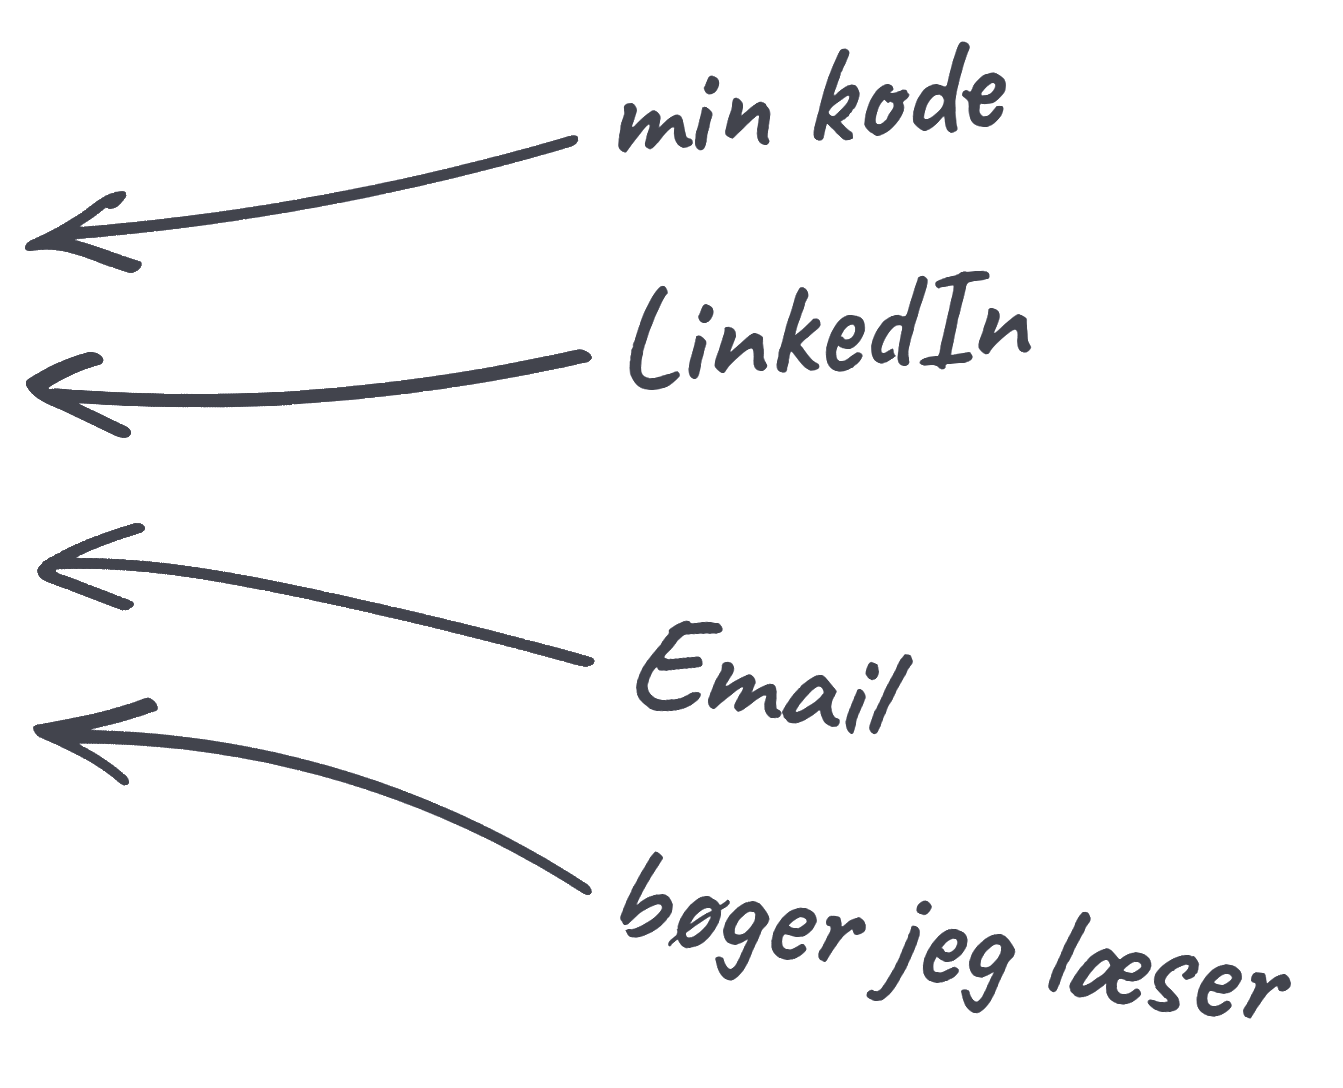
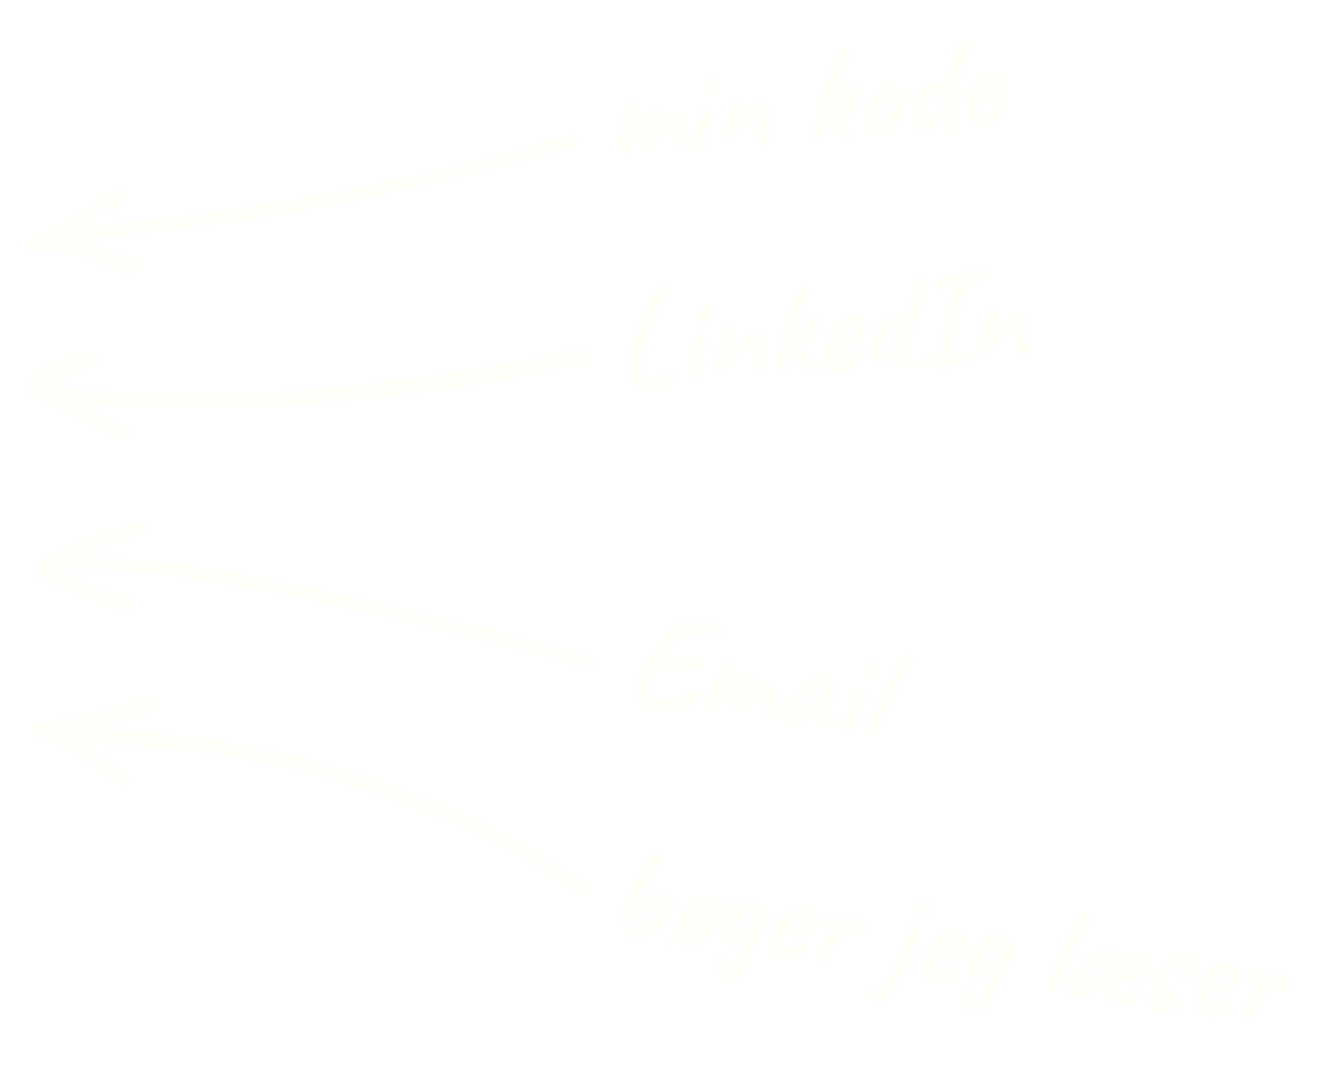
Darkmode

diff --git a/style.css b/style.css
@@ -8,6 +8,13 @@ span {
 	top: -8px;
 }
 
+body {
+	background-image: url("images/background.png");
+	background-color: #cccccc;
+	background-repeat: no-repeat;
+    background-size: cover;
+}
+
 #split-background {
 	position: absolute;
 	top: 0px;
@@ -37,9 +44,9 @@ span {
 }
 
 #profile-image {
-	width: 227px;
+	width: 224.5px;
 	box-shadow: 5px 5px 16px #0002;
-	border: 1px solid #000A;
+	border: 2px solid #fff3;
 	border-radius: 3px;
 }
 
@@ -50,7 +57,8 @@ span {
 	letter-spacing: 1px;
 	margin: 0px;
 	padding-bottom: 18px;
-	color: #42444d;
+	color: #FFF;
+	text-shadow: 5px 5px 16px #0007;
 }
 
 .linkbox {
@@ -60,9 +68,9 @@ span {
 	margin-bottom: 7px;
 	padding: 11px;
 	width: 300px;
-	height: 28px;
-	box-shadow: 5px 5px 16px #0002;
-	border: 1px solid #0003;
+	height: 25.5px;
+	box-shadow: 5px 5px 16px #0007;
+	border: 2px solid #0003;
 	border-radius: 3px;
 }
 

diff --git a/script.js b/script.js
@@ -7,12 +7,12 @@ window.onresize = function(event) {
 
 	// }
 	// else
-	if (window.innerWidth < 1250) {
+	if (window.innerWidth < 1250 || window.innerWidth/window.innerHeight > 1) {
 		pf_div.style.marginLeft = (window.innerWidth/2 - 600/2).toString()+"px";
 		arrow_img.style.visibility = 'hidden';
 	}
 	else {
-		pf_div.style.marginLeft = (window.innerWidth/2 - 900/2).toString()+"px";
+		pf_div.style.marginLeft = (window.innerWidth/2 - 1080/2).toString()+"px";
 		arrow_img.style.visibility = 'visible';
 	}
 };

diff --git a/linkboxes.css b/linkboxes.css
@@ -8,7 +8,7 @@
 
 #github-linkbox {
 	background-color: #24292E;
-	border-color: #000;
+	border-color: #1A1C21;
 	color: #fff;
 }
 
